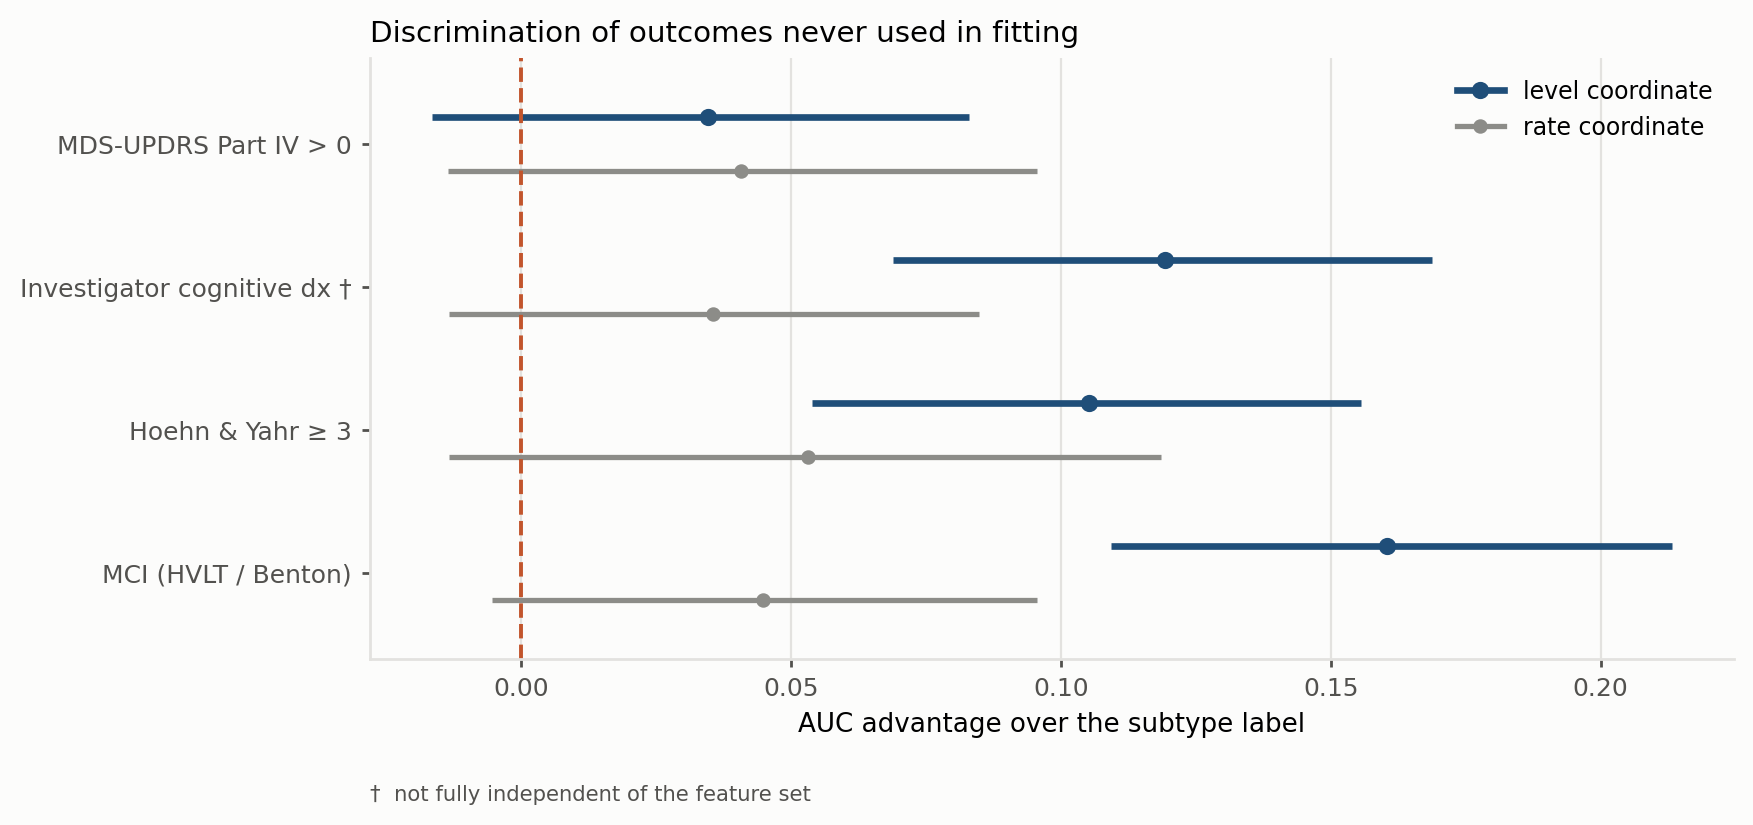
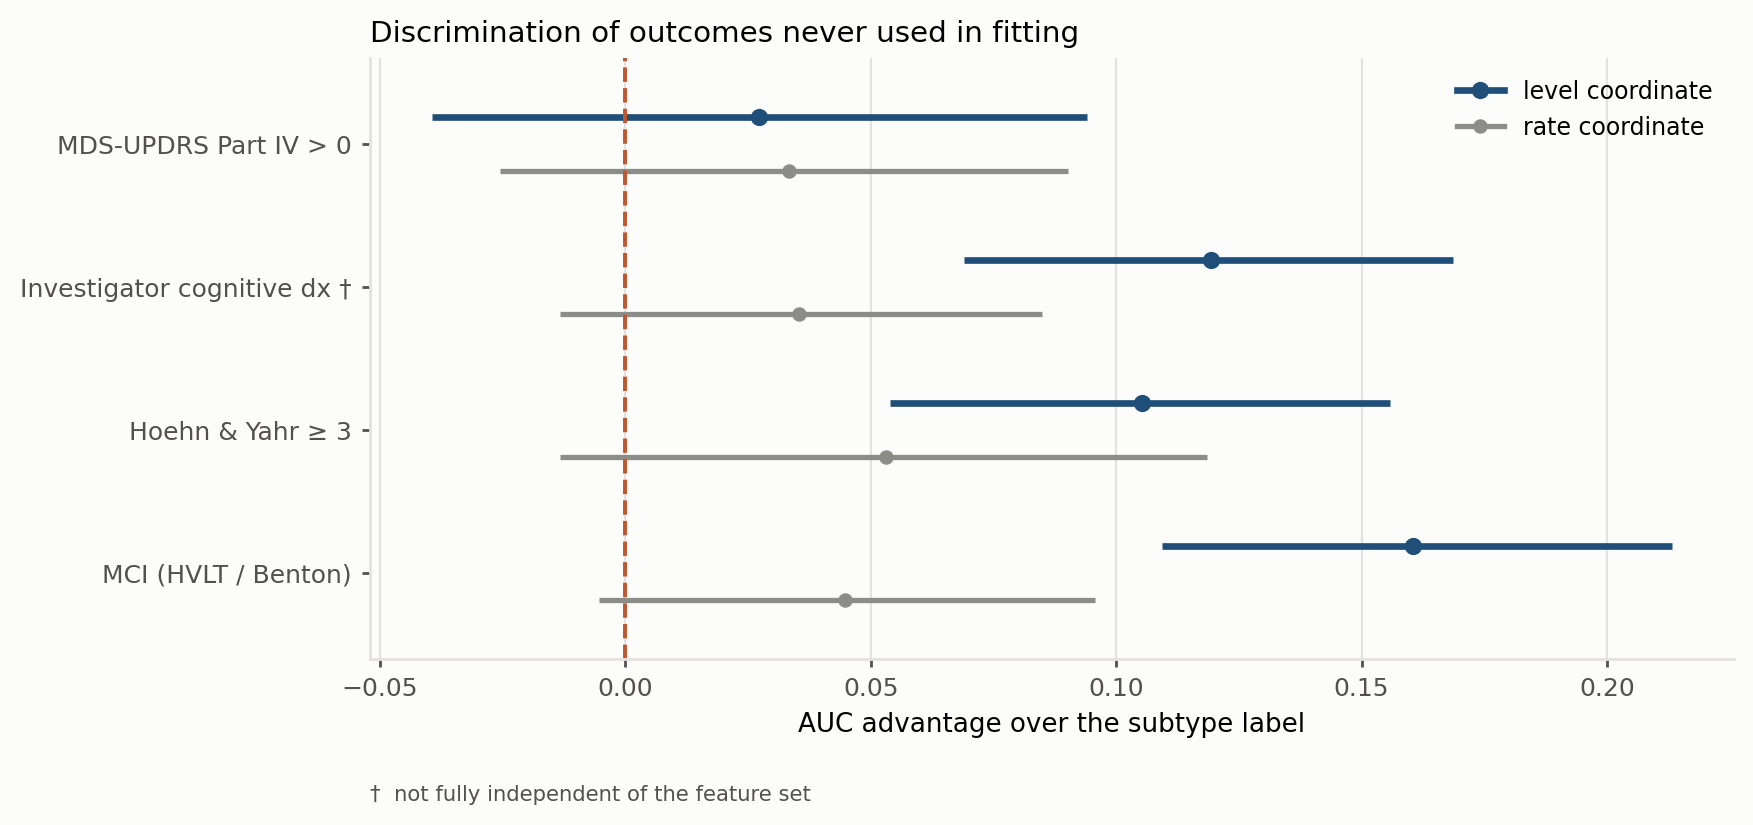
Orient the outcome-contrast reference and save the outcome table whole
Two defects the submission audit found in the clinical-profile outcome
analysis. Neither changes a conclusion, and both were caught by re-deriving
reported numbers from their runs rather than by reading the drafts.

best_component_vs_subtype gave the comparator component a one-time orientation
flip so that a higher score means more outcome, but left the subtype-label
reference unoriented. Wherever the label's AUC falls below chance the
comparator was therefore allowed its favourable direction while the label was
not, which inflates the difference. Only motor complications is affected in
this cohort: the label reads 0.4963 raw against 0.5037 oriented, and the
reported difference falls from +0.035 to +0.027, its interval still spanning
zero on either convention. The reference now takes the same flip, applied
before the bootstrap so that orientation is a property of the score rather
than something re-chosen per replicate. The function has one call site, so the
blast radius is these eight contrasts; a full rerun confirms only motor
complications moves and the other six shift by exactly zero.

64_clinical_profile_cv wrote outcome_table.csv with .round(4) while analysing
the full-precision in-memory table, so the saved file could not reproduce the
run that produced it. Four decimals is adequate for level coordinates, of
order one, and destructive for rate coordinates, of order 1e-3: rounding
collapsed 856 of 934 rate_tremor values to exactly zero, and 182 of rate_ess.
[…]

diff --git a/scripts/82_outcome_contrast_orientation_fix.py b/scripts/82_outcome_contrast_orientation_fix.py
@@ -1,0 +1,168 @@
+#!/usr/bin/env python3
+"""Recompute the outcome-discrimination contrasts with a consistently
+oriented reference (Stage 12 finding A1).
+
+SUPERSEDED -- do not use its numbers. This script reads the CV run's saved
+`outcome_table.csv`, which `scripts/64_clinical_profile_cv.py` writes with
+`.round(4)` while computing on the full-precision in-memory table. Four
+decimals is destructive for rate coordinates of order 1e-3, so the contrasts
+below are slightly wrong on those columns (`mci`/`rate` by -0.0020). It is kept
+because it is what isolated the A1 fix from everything else, but the
+authoritative corrected table is
+`experiments/20261103T213859Z_a2_clinical_profile_cv_rerun/h3_component_vs_subtype.csv`,
+produced by a full rerun at HEAD with the fix in place. See the Stage 12 audit,
+A2 and A2'.
+
+`clinical_profile.best_component_vs_subtype` gave the comparator component a
+one-time orientation flip so that a higher score means more outcome, but left
+the subtype-label reference unoriented. On any outcome whose label AUC falls
+below chance the comparator is therefore allowed its favourable direction
+while the label is not, and the reported difference is inflated.
+
+Both arms are computed **here, under one version of the library**, differing
+only in whether the reference is oriented. That isolates the change: comparing
+the fixed code against the figures saved by the October CV run would also pick
+up any unrelated library drift since, and in fact does -- the drift is reported
+below as information, not as a check.
+
+Only `motor_complications` should move: its label AUC is 0.4963 raw against
+0.5037 oriented. The other three outcomes have label AUCs above chance, where
+the two conventions coincide.
+
+Refits nothing; reads the anchor table and associations saved by the CV run.
+"""
+from __future__ import annotations
+
+import datetime as dt
+import json
+import subprocess
+import sys
+from pathlib import Path
+
+import numpy as np
+import pandas as pd
+
+ROOT = Path(__file__).resolve().parent.parent
+sys.path.insert(0, str(ROOT / "src"))
+
+from ppmi_subtype import clinical_profile as cp  # noqa: E402
+
+SRC = ROOT / "experiments" / "20261020T180515Z_clinical_profile_cv"
+OUTCOMES = ["hy_ge_3", "mci", "motor_complications", "cognitive_dx"]
+KINDS = ["rate", "level"]
+SEED, N_BOOT = 42, 2000
+UNAFFECTED = ["hy_ge_3", "mci", "cognitive_dx"]
+
+
+def contrast(table: pd.DataFrame, assoc: pd.DataFrame, outcome: str,
+             kind: str, orient_ref: bool) -> dict:
+    """The library's contrast, with the reference orientation under a flag.
+
+    Mirrors `clinical_profile.best_component_vs_subtype` exactly; `orient_ref`
+    False reproduces the behaviour before the fix.
+    """
+    sub = assoc[(assoc["outcome"] == outcome)
+                & assoc["score"].str.startswith(f"{kind}_")]
+    best = sub.loc[sub["auc_abs"].idxmax(), "score"]
+
+    y = table[outcome].to_numpy(dtype=float)
+    ok = np.isfinite(y)
+    pos = y[ok].astype(bool)
+
+    score = table[best].to_numpy(float)
+    if cp.auc(score[ok], pos) < 0.5:
+        score = -score
+
+    ref = table["subtype_at_anchor"].map(cp._SUBTYPE_SCORE).to_numpy(float)
+    if orient_ref and cp.auc(ref[ok], pos) < 0.5:
+        ref = -ref
+
+    out = cp.bootstrap_auc_difference(score[ok], ref[ok], pos,
+                                      seed=SEED, n_boot=N_BOOT)
+    return {"outcome": outcome, "kind": kind, "best_component": best,
+            "selection_is_optimistic": True, **out}
+
+
+def arm(table, assoc, orient_ref: bool) -> pd.DataFrame:
+    rows = [contrast(table, assoc, o, k, orient_ref)
+            for o in OUTCOMES for k in KINDS]
+    df = pd.DataFrame(rows)
+    num = ["auc_a", "auc_b", "delta", "delta_ci_low", "delta_ci_high"]
+    df[num] = df[num].round(4)
+    return df
+
+
+def main() -> int:
+    stamp = dt.datetime.now(dt.timezone.utc).strftime("%Y%m%dT%H%M%SZ")
+    out = ROOT / "experiments" / f"{stamp}_a1_outcome_contrast_orientation"
+    out.mkdir(parents=True, exist_ok=True)
+
+    table = pd.read_csv(SRC / "outcome_table.csv")
+    assoc = pd.read_csv(SRC / "outcome_associations.csv")
+
+    before = arm(table, assoc, orient_ref=False)
+    after = arm(table, assoc, orient_ref=True)
+    after.to_csv(out / "corrected_contrasts.csv", index=False)
+
+    key = ["outcome", "kind"]
+    m = before.merge(after, on=key, suffixes=("_before", "_after"))
+    m["delta_shift"] = (m["delta_after"] - m["delta_before"]).round(4)
+    m.to_csv(out / "before_after.csv", index=False)
+
+    # Drift of the pre-fix arm against the figures the October run saved.
+    # Reported, not asserted: unrelated library changes since then land here.
+    saved = pd.read_csv(SRC / "h3_component_vs_subtype.csv")
+    d = saved.merge(before, on=key, suffixes=("_saved", "_prefix"))
+    d["drift"] = (d["delta_prefix"] - d["delta_saved"]).round(4)
+    d[key + ["delta_saved", "delta_prefix", "drift"]].to_csv(
+        out / "drift_vs_october_run.csv", index=False)
+
+    checks: dict[str, bool] = {}
+    for outcome in UNAFFECTED:
+        s = m[m["outcome"] == outcome]
+        checks[f"{outcome} identical under the fix"] = bool(
+            (s["delta_before"] == s["delta_after"]).all()
+            and (s["delta_ci_low_before"] == s["delta_ci_low_after"]).all()
+            and (s["delta_ci_high_before"] == s["delta_ci_high_after"]).all())
+
+    mc = m[(m["outcome"] == "motor_complications") & (m["kind"] == "level")].iloc[0]
+    checks["motor_complications reference moved to its oriented value"] = bool(
+        abs(mc["auc_b_after"] - 0.5037) < 5e-4)
+    checks["motor_complications difference shrank"] = bool(
+        mc["delta_after"] < mc["delta_before"])
+    checks["motor_complications interval still includes zero"] = bool(
+        mc["delta_ci_low_after"] < 0 < mc["delta_ci_high_after"])
+    checks["only motor_complications moved"] = bool(
+        (m.loc[m["outcome"] != "motor_complications", "delta_shift"] == 0).all()
+        and (m.loc[m["outcome"] == "motor_complications", "delta_shift"] != 0).all())
+    checks["every rate interval still includes zero"] = bool(
+        ((after[after["kind"] == "rate"]["delta_ci_low"] < 0)
+         & (after[after["kind"] == "rate"]["delta_ci_high"] > 0)).all())
+    checks["three of four level intervals still exclude zero"] = bool(
+        (after[after["kind"] == "level"]["delta_ci_low"] > 0).sum() == 3)
+
+    try:
+        commit = subprocess.run(["git", "rev-parse", "HEAD"], cwd=ROOT,
+                                capture_output=True, text=True,
+                                check=True).stdout.strip()
+    except Exception:
+        commit = "unknown"
+    (out / "manifest.json").write_text(json.dumps({
+        "generated": stamp, "git_commit": commit, "source_run": SRC.name,
+        "seed": SEED, "n_boot": N_BOOT, "refits": 0, "checks": checks,
+    }, indent=1) + "\n")
+
+    print(f"wrote {out.relative_to(ROOT)}\n")
+    print(m[["outcome", "kind", "best_component_after", "auc_b_before",
+             "auc_b_after", "delta_before", "delta_after", "delta_shift"]]
+          .to_string(index=False))
+    print("\ndrift of the pre-fix arm vs the October saved run (information):")
+    print(d[key + ["delta_saved", "delta_prefix", "drift"]].to_string(index=False))
+    print("\nchecks:")
+    for k, v in checks.items():
+        print(f"  {'PASS' if v else 'FAIL'}  {k}")
+    return 0 if all(checks.values()) else 1
+
+
+if __name__ == "__main__":
+    sys.exit(main())

diff --git a/scripts/83_compare_clinical_profile_runs.py b/scripts/83_compare_clinical_profile_runs.py
@@ -1,0 +1,90 @@
+#!/usr/bin/env python3
+"""Diff two clinical-profile CV runs file by file (Stage 12 finding A2).
+
+The 2026-10-20 run recorded commit 3a860ca, at which
+`src/ppmi_subtype/clinical_profile.py` did not yet exist -- the module was
+first committed five days later in 19bf8aa. That run therefore executed
+uncommitted code that was revised before being committed, so nothing it saved
+is reproducible from any committed state.
+
+This compares it against a re-run at the current commit and reports, per file
+and per column, how far each quantity moved. Columns that move at all are
+listed with their largest shift, so the manuscript's exposure is explicit
+rather than assumed.
+
+usage: 83_compare_clinical_profile_runs.py OLD_RUN NEW_RUN
+"""
+from __future__ import annotations
+
+import sys
+from pathlib import Path
+
+import numpy as np
+import pandas as pd
+
+# Quantities the manuscript quotes from this run, by file.
+MANUSCRIPT = {
+    "representation_dimensionality.csv": "R7 dimensionality (7 PCs, PC1 shares)",
+    "outcome_associations.csv": "R7 outcome AUCs",
+    "h3_component_vs_subtype.csv": "R7 outcome contrasts (also A1)",
+    "contrasts.csv": "R7 profile-prediction log-density deltas",
+    "derived_label_vs_subtype_history.csv": "R5 two-class latent contrast",
+    "model_comparison.csv": "R5/R7 model comparison",
+}
+TOL = 5e-5
+
+
+def key_columns(df: pd.DataFrame) -> list:
+    return [c for c in df.columns if df[c].dtype == object or c in ("n", "n_events")]
+
+
+def compare(old: Path, new: Path) -> int:
+    names = sorted({p.name for p in old.glob("*.csv")} & {p.name for p in new.glob("*.csv")})
+    worst: list[tuple] = []
+    print(f"old: {old.name}\nnew: {new.name}\n")
+    print(f"{'file':<44} {'rows':<11} {'max |delta|':<12} moved columns")
+    for name in names:
+        a = pd.read_csv(old / name)
+        b = pd.read_csv(new / name)
+        if a.shape != b.shape:
+            print(f"{name:<44} SHAPE {a.shape} vs {b.shape}")
+            worst.append((name, float("inf"), ["shape"]))
+            continue
+        num = [c for c in a.columns
+               if pd.api.types.is_numeric_dtype(a[c]) and pd.api.types.is_numeric_dtype(b[c])]
+        moved, mx = [], 0.0
+        for c in num:
+            d = np.abs(a[c].to_numpy(float) - b[c].to_numpy(float))
+            d = d[np.isfinite(d)]
+            if len(d) and d.max() > TOL:
+                moved.append(f"{c}({d.max():.4g})")
+                mx = max(mx, float(d.max()))
+        tag = "same rows" if a.shape == b.shape else ""
+        print(f"{name:<44} {tag:<11} {mx:<12.4g} {', '.join(moved) if moved else '-'}")
+        if moved:
+            worst.append((name, mx, moved))
+
+    print("\n=== manuscript exposure ===")
+    any_exposed = False
+    for name, what in MANUSCRIPT.items():
+        hit = next((w for w in worst if w[0] == name), None)
+        if not (old / name).exists() or not (new / name).exists():
+            print(f"  n/a      {name:<42} {what}  (absent from one run)")
+        elif hit:
+            any_exposed = True
+            print(f"  MOVED    {name:<42} {what}  max |delta| {hit[1]:.4g}")
+        else:
+            print(f"  stable   {name:<42} {what}")
+    print("\nAny manuscript quantity moved:", any_exposed)
+    return 0
+
+
+def main() -> int:
+    if len(sys.argv) != 3:
+        print(__doc__)
+        return 2
+    return compare(Path(sys.argv[1]), Path(sys.argv[2]))
+
+
+if __name__ == "__main__":
+    sys.exit(main())

diff --git a/scripts/84_verify_outcome_table_roundtrip.py b/scripts/84_verify_outcome_table_roundtrip.py
@@ -1,0 +1,76 @@
+#!/usr/bin/env python3
+"""Verify that a CV run's saved outcome_table.csv round-trips (Stage 12, A2').
+
+`scripts/64_clinical_profile_cv.py` analyses an in-memory table and separately
+saves it. Those used to disagree: the file was written with `.round(4)`, which
+is destructive for rate coordinates of order 1e-3, so recomputing from the
+saved file gave different answers than the run reported -- a trap the Stage 12
+audit fell into. The file is now saved at full precision.
+
+This recomputes the eight outcome contrasts from the SAVED table and checks
+they reproduce the run's own saved `h3_component_vs_subtype.csv`. If that holds,
+the artifact is reusable; if it does not, the saved table is still lossy.
+
+usage: 84_verify_outcome_table_roundtrip.py RUN_DIR
+"""
+from __future__ import annotations
+
+import sys
+from pathlib import Path
+
+import pandas as pd
+
+ROOT = Path(__file__).resolve().parent.parent
+sys.path.insert(0, str(ROOT / "src"))
+
+from ppmi_subtype import clinical_profile as cp  # noqa: E402
+
+COLS = ["auc_a", "auc_b", "delta", "delta_ci_low", "delta_ci_high"]
+SEED, N_BOOT = 42, 2000
+
+
+def main() -> int:
+    if len(sys.argv) != 2:
+        print(__doc__)
+        return 2
+    run = Path(sys.argv[1])
+
+    table = pd.read_csv(run / "outcome_table.csv")
+    assoc = pd.read_csv(run / "outcome_associations.csv")
+    saved = pd.read_csv(run / "h3_component_vs_subtype.csv")
+
+    rows = []
+    for oc in assoc["outcome"].unique():
+        if assoc[assoc["outcome"] == oc]["auc"].notna().any():
+            for kind in ("rate", "level"):
+                rows.append(cp.best_component_vs_subtype(
+                    table, assoc, oc, kind=kind, seed=SEED, n_boot=N_BOOT))
+    recomputed = pd.DataFrame([r for r in rows if r.get("n")]).round(4)
+
+    key = ["outcome", "kind"]
+    m = saved.merge(recomputed, on=key, suffixes=("_saved", "_recomputed"))
+    print(f"run: {run.name}\n")
+    print(f"{'outcome':<22} {'kind':<6} " + " ".join(f"{c:>16}" for c in COLS))
+    bad = []
+    for _, r in m.iterrows():
+        diffs = [abs(r[f"{c}_saved"] - r[f"{c}_recomputed"]) for c in COLS]
+        print(f"{r['outcome']:<22} {r['kind']:<6} "
+              + " ".join(f"{d:>16.2e}" for d in diffs))
+        if max(diffs) > 1e-9:
+            bad.append((r["outcome"], r["kind"], max(diffs)))
+
+    # Does the saved table still carry the rate coordinates at usable precision?
+    rate_cols = [c for c in table.columns if c.startswith("rate_")]
+    worst = min((table[c].abs().replace(0, pd.NA).dropna().min()
+                 for c in rate_cols if table[c].abs().sum() > 0), default=float("nan"))
+    zeros = {c: int((table[c] == 0).sum()) for c in rate_cols}
+    print(f"\nsmallest non-zero rate magnitude in the saved table: {worst:.3g}")
+    print(f"exact zeros per rate column: {zeros}")
+
+    print("\nround-trip:", "PASS — the saved table reproduces the run"
+          if not bad else f"FAIL — {len(bad)} contrasts differ: {bad}")
+    return 0 if not bad else 1
+
+
+if __name__ == "__main__":
+    sys.exit(main())

diff --git a/src/ppmi_subtype/clinical_profile.py b/src/ppmi_subtype/clinical_profile.py
@@ -1357,11 +1357,17 @@ def best_component_vs_subtype(table: pd.DataFrame, associations: pd.DataFrame,
     y = table[outcome].to_numpy(dtype=float)
     ok = np.isfinite(y)
     score = table[best].to_numpy(float)
-    # Orient the component so a higher score means more outcome, matching the
-    # subtype reference's orientation.
+    # Orient the component so a higher score means more outcome.
     if auc(score[ok], y[ok].astype(bool)) < 0.5:
         score = -score
     ref = table["subtype_at_anchor"].map(_SUBTYPE_SCORE).to_numpy(float)
+    # The reference gets the same one-time orientation. Without it the
+    # component is allowed its favourable direction while the label is not,
+    # which inflates the difference on any outcome whose label AUC is below
+    # chance. The flip is fixed here, before the bootstrap, so orientation is
+    # a property of the score rather than something re-chosen per replicate.
+    if auc(ref[ok], y[ok].astype(bool)) < 0.5:
+        ref = -ref
 
     out = bootstrap_auc_difference(score[ok], ref[ok], y[ok].astype(bool),
                                    seed=seed, n_boot=n_boot)

diff --git a/scripts/64_clinical_profile_cv.py b/scripts/64_clinical_profile_cv.py
@@ -544,7 +544,13 @@ def main() -> int:
     if missing_cols:
         raise SystemExit(f"panel is missing outcome columns: {missing_cols}")
     outcome_table = cp.build_outcome_table(panel, rep0, anchor_visit=1)
-    outcome_table.round(4).to_csv(out / "outcome_table.csv", index=False)
+    # Full precision, like the other per-patient tables this script saves. It
+    # was previously rounded to 4dp, which is destructive for the rate
+    # coordinates: those are of order 1e-3, so rounding collapses many of them
+    # to exactly zero and perturbs any rank statistic recomputed from the file.
+    # The analysis below uses the in-memory table either way, so this only
+    # affects whether the saved file can be reused -- and it could not be.
+    outcome_table.to_csv(out / "outcome_table.csv", index=False)
     assoc = cp.outcome_associations(outcome_table, seed=cfg.seed)
     assoc.round(4).to_csv(out / "outcome_associations.csv", index=False)
 

diff --git a/scripts/80_manuscript_assets.py b/scripts/80_manuscript_assets.py
@@ -50,7 +50,12 @@ from ppmi_subtype.plots import (  # noqa: E402
 
 E2 = "experiments/20261103T193205Z_e2_transition_patient_bootstrap"
 E8 = "experiments/20261103T202632Z_e8_harmonised_family_comparison"
-T5 = "manuscript/tables/table5_clinical_outcome_associations.csv"
+# Full-precision rerun at HEAD carrying the A1 reference-orientation fix.
+# NOT scripts/82's output: that read the run's saved outcome_table.csv,
+# which script 64 writes with .round(4) while computing on the in-memory
+# full-precision table, so small-magnitude rate columns shift (see the
+# Stage 12 audit, A2).
+T5 = "experiments/20261103T220147Z_a2p_outcome_table_fullprec/h3_component_vs_subtype.csv"
 
 CLASSES = ["TD", "Indeterminate", "PIGD"]
 ACCENT = "#1f4e79"
